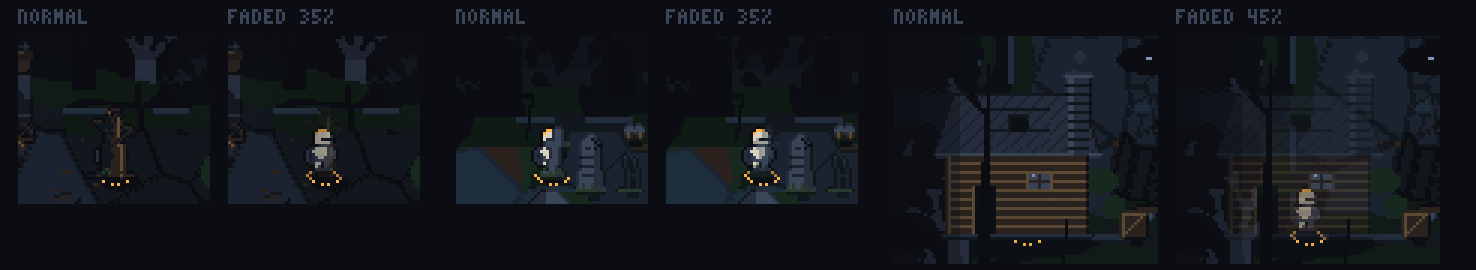
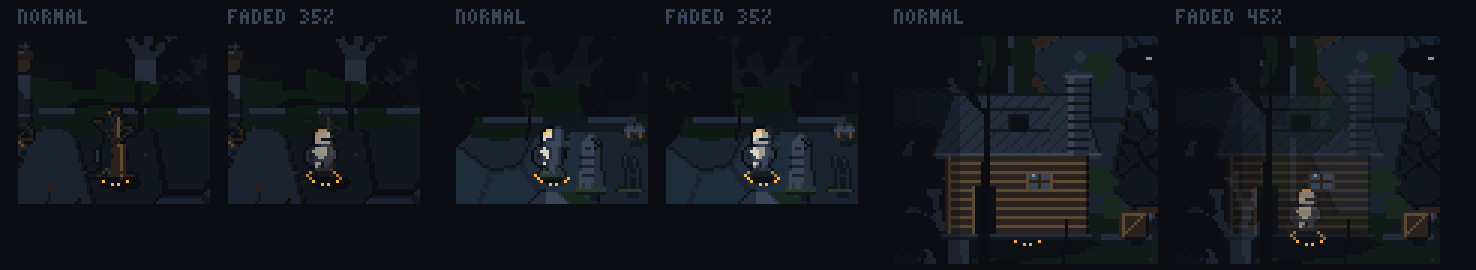
Fix arena v4 review findings
De-stripe pass for 1-px slivers now respects the joint rule: joints are never
lightened, stone slivers next to a joint only take that joint's tone, a dark
joint between a lit edge and a joint darkens the lit edge instead, and a final
guard keeps every joint at or below its stone neighbours within the 1.35
contrast budget. Result: 0 dither windows, 0 joints lighter than a stone.

Claude-Session: https://claude.ai/code/session_01Ng2YPPjcRqgbh5YHv3EBEA

diff --git a/tools/nglib/compose.py b/tools/nglib/compose.py
@@ -396,6 +396,10 @@ def root_mushroom_spots():
     return spots[:L.GLOW_MUSHROOMS]
 
 
+from .palette import RGB as _RGB  # noqa: E402
+
+LUMI = np.array([0.2126 * ((c[0] / 255) ** 2.2) + 0.7152 * ((c[1] / 255) ** 2.2) + 0.0722 * ((c[2] / 255) ** 2.2)
+                 for c in _RGB])
 STONE = ["bg0", "bg1", "fog", "mist", "stone_dark"]  # v4 stone ramp, darkest first (cap = stone_dark)
 MOSS = ["forest", "fern"]
 SOIL = ["earth", "loam"]
@@ -433,6 +437,30 @@ def _value_field(xx, yy):
     return v, din
 
 
+def long_seams(lab, max_len):
+    """Axis-aligned joint runs longer than max_len px between the same two stones -> [(stone index, run length)]."""
+    out = []
+    for axis in (0, 1):
+        a_ = lab if axis == 0 else lab.T
+        # boundary between two real stones (labels < 0 = outside the arena: the rect edge is not a seam)
+        diff = (a_[:, :-1] != a_[:, 1:]) & (a_[:, :-1] >= 0) & (a_[:, 1:] >= 0)
+        pair = a_[:, :-1] * 100000 + a_[:, 1:]
+        for x in range(diff.shape[1]):
+            run, prev = 0, None
+            col_d, col_p = diff[:, x], pair[:, x]
+            for y in range(len(col_d)):
+                if col_d[y] and col_p[y] == prev:
+                    run += 1
+                else:
+                    if run > max_len:
+                        out.append((int(prev // 100000), run))
+                    run = 1 if col_d[y] else 0
+                    prev = col_p[y] if col_d[y] else None
+            if run > max_len:
+                out.append((int(prev // 100000), run))
+    return out
+
+
 def stone_layout():
     """The flagstone layout: seeds (Poisson by zone, concentric at the altar, cobbles on the paths), Lloyd-relaxed Voronoi
     labels, per-stone base tone (index into STONE), joints, and which cells are missing / broken / sunken."""
@@ -460,13 +488,15 @@ def stone_layout():
         for (x0, y0), (x1, y1) in zip(path, path[1:]):
             seg = math.hypot(x1 - x0, y1 - y0)
             nx, ny = -(y1 - y0) / seg, (x1 - x0) / seg
-            for k in range(int(seg // 9) + 1):
-                t = k * 9 / seg
-                for side in (-1, 0, 1):  # three rows of cobbles, staggered
-                    jitter = r.uniform(-1.2, 1.2)
-                    off = (k % 2) * 4.5 if side == 0 else 0
-                    fixed.append((x0 + (x1 - x0) * (t + off / seg) + nx * side * 5.5 + jitter,
-                                  y0 + (y1 - y0) * (t + off / seg) + ny * side * 5.5))
+            k = 0.0
+            while k <= seg:
+                t = k / seg
+                for side in (-1, 0, 1):  # three loose rows of cobbles: jitter along AND across, uneven stagger
+                    along = r.uniform(-1.8, 1.8) + (r.uniform(3, 5.5) if side == 0 else 0)
+                    across = side * r.uniform(4.6, 6.4) + r.uniform(-1.5, 1.5)
+                    fixed.append((x0 + (x1 - x0) * (t + along / seg) + nx * across,
+                                  y0 + (y1 - y0) * (t + along / seg) + ny * across))
+                k += r.uniform(8.0, 11.0)
     pts = list(fixed)
     pt_arr = np.array(pts)
     for _ in range(9000):
@@ -500,22 +530,43 @@ def stone_layout():
         moved[ok, 0], moved[ok, 1] = mx[ok] / cnt[ok], my[ok] / cnt[ok]
         moved[:nfix] = seeds[:nfix]
         seeds = moved
-    lab = labels_of(seeds)
-    n = len(seeds)
-    # cobbles never grow beyond the path corridor: those pixels go to the nearest flagstone instead
     pd = np.full((H, W), 1e9)
     for pth in L.PATHS:
         for (x0, y0), (x1, y1) in zip(pth, pth[1:]):
             vx, vy = x1 - x0, y1 - y0
             t = np.clip(((xx - x0) * vx + (yy - y0) * vy) / (vx * vx + vy * vy), 0, 1)
             pd = np.minimum(pd, np.hypot(xx - x0 - t * vx, yy - y0 - t * vy))
+    n = len(seeds)
     is_cobble = np.zeros(n, dtype=bool)
     is_cobble[32:nfix] = True
-    stray = is_cobble[lab] & (pd > L.PATH_WIDTH / 2 + 1)
-    if stray.any():
-        others = np.nonzero(~is_cobble)[0]
-        sub_lab = labels_of(seeds[others])
-        lab[stray] = others[sub_lab[stray]]
+    others = np.nonzero(~is_cobble)[0]
+
+    def full_labels(sd):
+        """Voronoi labels; cobbles never grow beyond the path corridor (those pixels go to the nearest flagstone)."""
+        lb = labels_of(sd)
+        stray = is_cobble[lb] & (pd > L.PATH_WIDTH / 2 + 1)
+        if stray.any():
+            lb[stray] = others[labels_of(sd[others])[stray]]
+        return lb
+
+    lab = full_labels(seeds)
+    inside = (xx > AX0 - 2) & (xx < AX1 + 2) & (yy > AY0 - 2) & (yy < AY1 + 2)
+    # break 4-way "+" junctions and long axis-aligned seams: nudge the seeds involved, recompute
+    for _round in range(12):
+        bad = set()
+        q = np.stack([lab[:-1, :-1], lab[:-1, 1:], lab[1:, :-1], lab[1:, 1:]])
+        four = (q[0] != q[1]) & (q[0] != q[2]) & (q[0] != q[3]) & (q[1] != q[2]) & (q[1] != q[3]) & (q[2] != q[3])
+        four &= inside[:-1, :-1]
+        for y, x in zip(*np.nonzero(four)):
+            bad.update(int(v_) for v_ in q[:, y, x])
+        for idx, _len in long_seams(np.where(inside, lab, -1), 20):
+            if idx >= 0:
+                bad.add(idx)
+        if not bad:
+            break
+        for i in sorted(bad):
+            seeds[i] += r.uniform(-4.0, 4.0, 2)
+        lab = full_labels(seeds)
     cnt = np.bincount(lab.ravel(), minlength=n)
     cxs = np.bincount(lab.ravel(), weights=xx.ravel(), minlength=n) / np.maximum(cnt, 1)
     cys = np.bincount(lab.ravel(), weights=yy.ravel(), minlength=n) / np.maximum(cnt, 1)
@@ -535,7 +586,8 @@ def stone_layout():
     calm = (cxs >= CZ[0]) & (cxs <= CZ[2]) & (cys >= CZ[1]) & (cys <= CZ[3])
     tone[calm] = np.where(r.random(calm.sum()) < 0.7, 2, 3)  # calm centre: fog / mist only
     path_cell = np.zeros(n, dtype=bool)
-    path_cell[len(fixed) - (len(fixed) - 1 - 31):nfix] = True  # cobbles (all fixed seeds after the plaza's 32)
+    path_cell[32:nfix] = True  # cobbles (all fixed seeds after the plaza's 32)
+    tone[path_cell] = np.maximum(1, tone[path_cell] - 1)  # cobbles one step darker, before the neighbour smoothing
     # neighbouring stones differ by at most one step
     pairs = set()
     for a_, b_ in ((lab[:, :-1], lab[:, 1:]), (lab[:-1, :], lab[1:, :])):
@@ -552,7 +604,6 @@ def stone_layout():
                 changed = True
         if not changed:
             break
-    tone[path_cell] = np.maximum(1, tone[path_cell] - 1)  # cobbles: one step darker than the flagstones
     # missing stones (soil / moss showing): rare in the mid ring, frequent at the forest edge and under the tree
     dcell = np.minimum.reduce([cxs - AX0, AX1 - cxs, cys - AY0, AY1 - cys])
     p_missing = np.where(dcell < 30, 0.65 * (1 - np.clip(dcell, 0, 30) / 30), 0.04)
@@ -760,6 +811,47 @@ def ground(sprites, decals_, props, ritual, return_masks=False):
     g0 = g.copy()  # one step darker, computed from the original tones (no chained steps)
     for src, dst in STEP_DOWN.items():
         g[shadow_m & (g0 == C.ci(src))] = C.ci(dst)
+    # remove 1-px slivers that would form a period-2 stripe (e.g. a thin stone strip between two joints)
+    jn = joint | np.roll(joint, 1, 0) | np.roll(joint, -1, 0) | np.roll(joint, 1, 1) | np.roll(joint, -1, 1)
+    for _ in range(2):
+        for axis in (0, 1):
+            a_ = g if axis == 0 else g.T
+            jt_ = joint if axis == 0 else joint.T
+            jn_ = jn if axis == 0 else jn.T
+            mid = a_[1:-2]
+            darker = LUMI[np.clip(a_[:-3], 0, None)] < LUMI[np.clip(mid, 0, None)]
+            stripe = (a_[:-3] == a_[2:-1]) & (mid == a_[3:]) & (mid != a_[:-3]) & (mid != C.T) & (a_[:-3] != C.T)
+            # joints are never lightened; a stone sliver touching a joint may only take that joint's tone
+            stripe &= ~(jt_[1:-2] & ~darker) & ~(jn_[1:-2] & ~jt_[1:-2] & darker & ~jt_[:-3])
+            mid[stripe] = a_[:-3][stripe]
+            # a dark joint between two lighter pixels (joint, then a lit edge): darken the next stone pixel instead,
+            # unless that would put it below a joint it touches
+            nxt = a_[2:-1]
+            lum_ = LUMI[np.clip(a_, 0, None)]
+            blocked = ((a_[:-3] == a_[2:-1]) & (mid == a_[3:]) & (mid != a_[:-3]) & (mid != C.T) & (a_[:-3] != C.T)
+                       & jt_[1:-2] & ~darker & ~jt_[2:-1])
+            ok = blocked.copy()
+            for sh in ((1, 0), (-1, 0), (1, 1), (-1, 1)):
+                nb_j = np.roll(jt_, sh[0], sh[1])[2:-1]
+                nb_l = np.roll(lum_, sh[0], sh[1])[2:-1]
+                ok &= ~(nb_j & (nb_l > LUMI[np.clip(mid, 0, None)]))
+            nxt[ok] = mid[ok]
+            if axis == 1:
+                g = a_.T.copy()
+    # safety net: a joint the pass left lighter than a stone pixel it touches takes that stone's tone,
+    # if it stays within the joint/stone contrast budget against all its stone neighbours
+    st_ = cover & ~joint & ~decal & ~shadow_m & (g != C.T)
+    lum = LUMI[np.clip(g, 0, None)]
+    nbs = [(np.roll(np.roll(g, -dy, 0), -dx, 1), np.roll(np.roll(st_, -dy, 0), -dx, 1))
+           for dy, dx in ((0, 1), (1, 0), (0, -1), (-1, 0))]
+    for y, x in zip(*np.nonzero(joint & cover & (g != C.T))):
+        cand = [int(n[y, x]) for n, m in nbs if m[y, x] and LUMI[n[y, x]] < lum[y, x]]
+        if not cand:
+            continue
+        c = min(cand, key=lambda k: LUMI[k])
+        if all((max(LUMI[c], LUMI[n[y, x]]) + 0.05) / (min(LUMI[c], LUMI[n[y, x]]) + 0.05) <= 1.35
+               for n, m in nbs if m[y, x]):
+            g[y, x] = c
     if return_masks:
         return g, dict(S, decal=decal | shadow_m, cover=cover)
     return g

diff --git a/tools/check_noise.py b/tools/check_noise.py
@@ -300,7 +300,7 @@ def stone_checks():
         return 0.2126 * f(r_) + 0.7152 * f(g_) + 0.0722 * f(b_)
     worst_ratio = 0.0
     pairs = set()
-    for y, x in zip(ys[::3], xs[::3]):
+    for y, x in zip(ys, xs):
         for dy, dx in ((0, 1), (1, 0), (0, -1), (-1, 0)):
             yy_, xx_ = y + dy, x + dx
             if 0 <= yy_ < g.shape[0] and 0 <= xx_ < g.shape[1] and st[yy_, xx_]:
@@ -312,6 +312,25 @@ def stone_checks():
     failed |= not ok
     print(f"stones: pixels > 1 step above base {int(over.sum())}, joints lighter than a stone {bad_light}, "
           f"max joint/stone contrast {worst_ratio:.2f} (<= {JOINT_STONE_MAX})  {'OK' if ok else 'FAIL'}")
+    # 5. geometry: no 4-way '+' junctions, no axis-aligned seam > 20 px, neighbours within one tone step,
+    #    calm-centre stones large (median sqrt(area) reported vs 36-44 px)
+    q = np.stack([lab[:-1, :-1], lab[:-1, 1:], lab[1:, :-1], lab[1:, 1:]])
+    four = int(((q[0] != q[1]) & (q[0] != q[2]) & (q[0] != q[3]) & (q[1] != q[2]) & (q[1] != q[3]) & (q[2] != q[3]))[
+        inside[:-1, :-1]].sum())
+    seams = [s_ for s_ in CP.long_seams(np.where(inside, lab, -1), 20) if s_[0] >= 0]
+    miss = M["missing"]
+    pairs_t = set()
+    for a_, b_ in ((lab[:, :-1], lab[:, 1:]), (lab[:-1, :], lab[1:, :])):
+        m = (a_ != b_) & inside[:a_.shape[0], :a_.shape[1]]
+        pairs_t |= set(zip(a_[m].tolist(), b_[m].tolist()))
+    steps = [(i, j) for i, j in pairs_t if not miss[i] and not miss[j] and abs(int(tone[i]) - int(tone[j])) > 1]
+    calm_ids = np.unique(lab[L.CALM_ZONE[1]:L.CALM_ZONE[3], L.CALM_ZONE[0]:L.CALM_ZONE[2]])
+    areas = np.bincount(lab.ravel())
+    calm_sizes = np.sqrt(areas[[i for i in calm_ids if M["calm"][i]]])
+    ok = four == 0 and not seams and not steps
+    failed |= not ok
+    print(f"stone geometry: '+' junctions {four}, straight seams > 20 px {len(seams)}, neighbour step > 1 {len(steps)}, "
+          f"calm stone size median {np.median(calm_sizes):.0f} px (36-44 target)  {'OK' if ok else 'FAIL'}")
     # 4. brightness cap inside the rect; stone and moss never in the ground (puddle moon glints excepted)
     cap = rel(IDX["stone_dark"])
     vals = np.unique(g[inside & (g != -1)])

diff --git a/tools/arena_layout.py b/tools/arena_layout.py
@@ -72,7 +72,7 @@ SMALL_DECOR_CLUSTERS = [((64, 60), 4), ((150, 222), 4), ((300, 70), 3), ((236, 4
 # v4 cobble paths (8-14 px cobbles): altar -> down toward the cabin, routed WEST of the gallows; a short branch to the well
 PATHS = [[(118, 100), (100, 124), (94, 160), (98, 196), (92, 222)], [(316, 236), (332, 214), (348, 194), (358, 182)]]
 PATH_WIDTH = 16
-STONE_SIZE = {"calm": 42, "mid": 34, "edge": 24, "tree": 24}  # Poisson spacing (px) of flagstone seeds per zone
+STONE_SIZE = {"calm": 52, "mid": 34, "edge": 24, "tree": 24}  # Poisson spacing (px) of flagstone seeds per zone
 ALTAR_PLAZA_R = 40
 PUDDLES = [(408, 156, 13, 6), (96, 182, 12, 5)]  # (x, y, rx, ry): one by the giant tree roots, one by the gallows
 CRACKS_MAX, CRACKS_CALM_MAX = 12, 4
